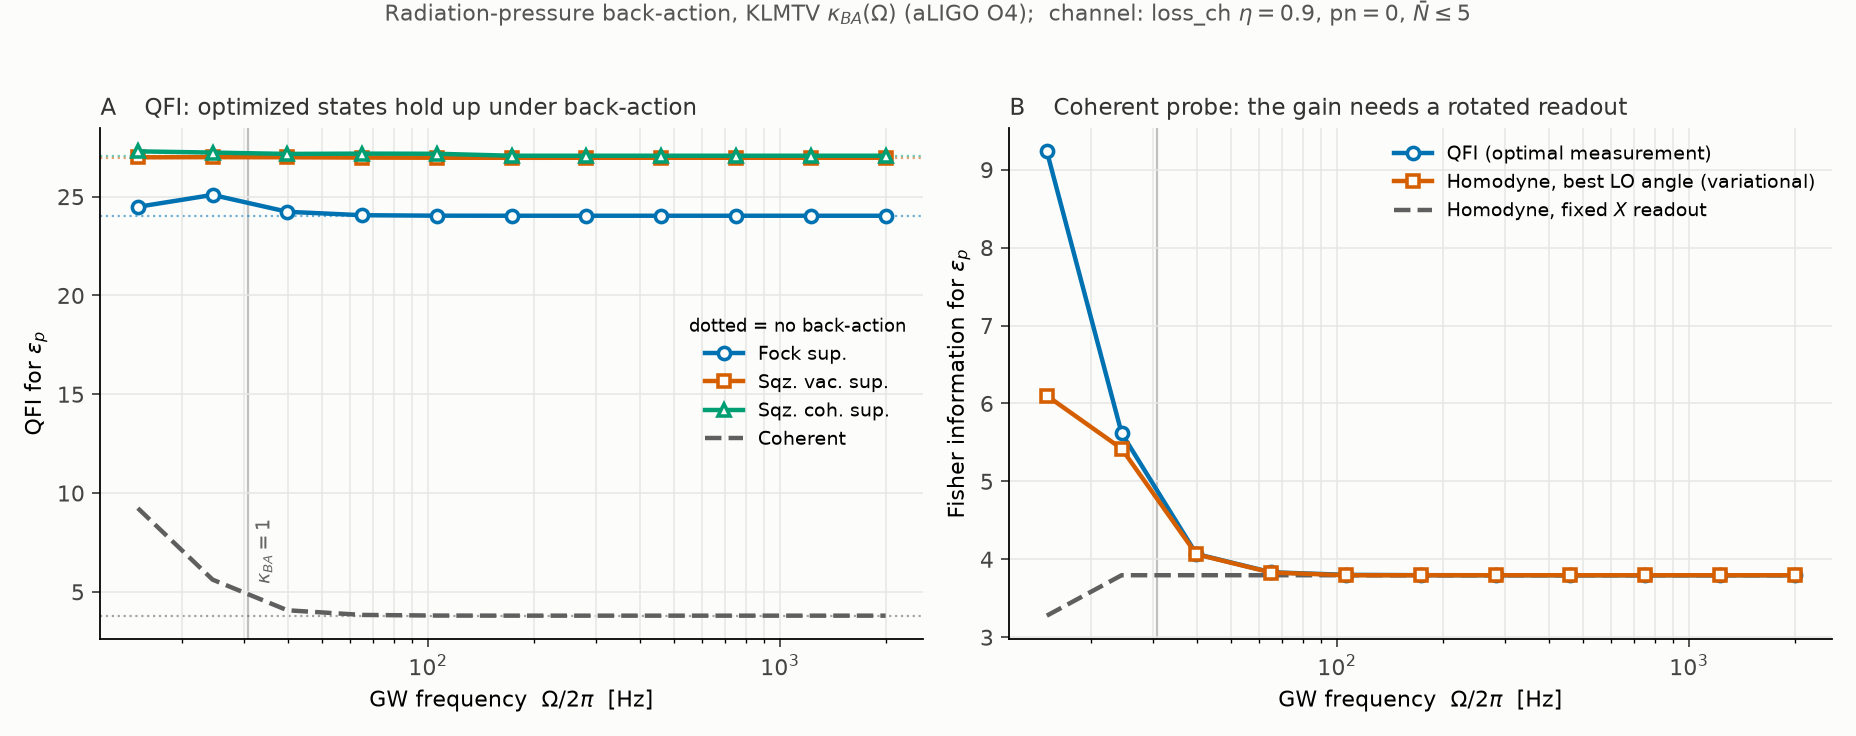
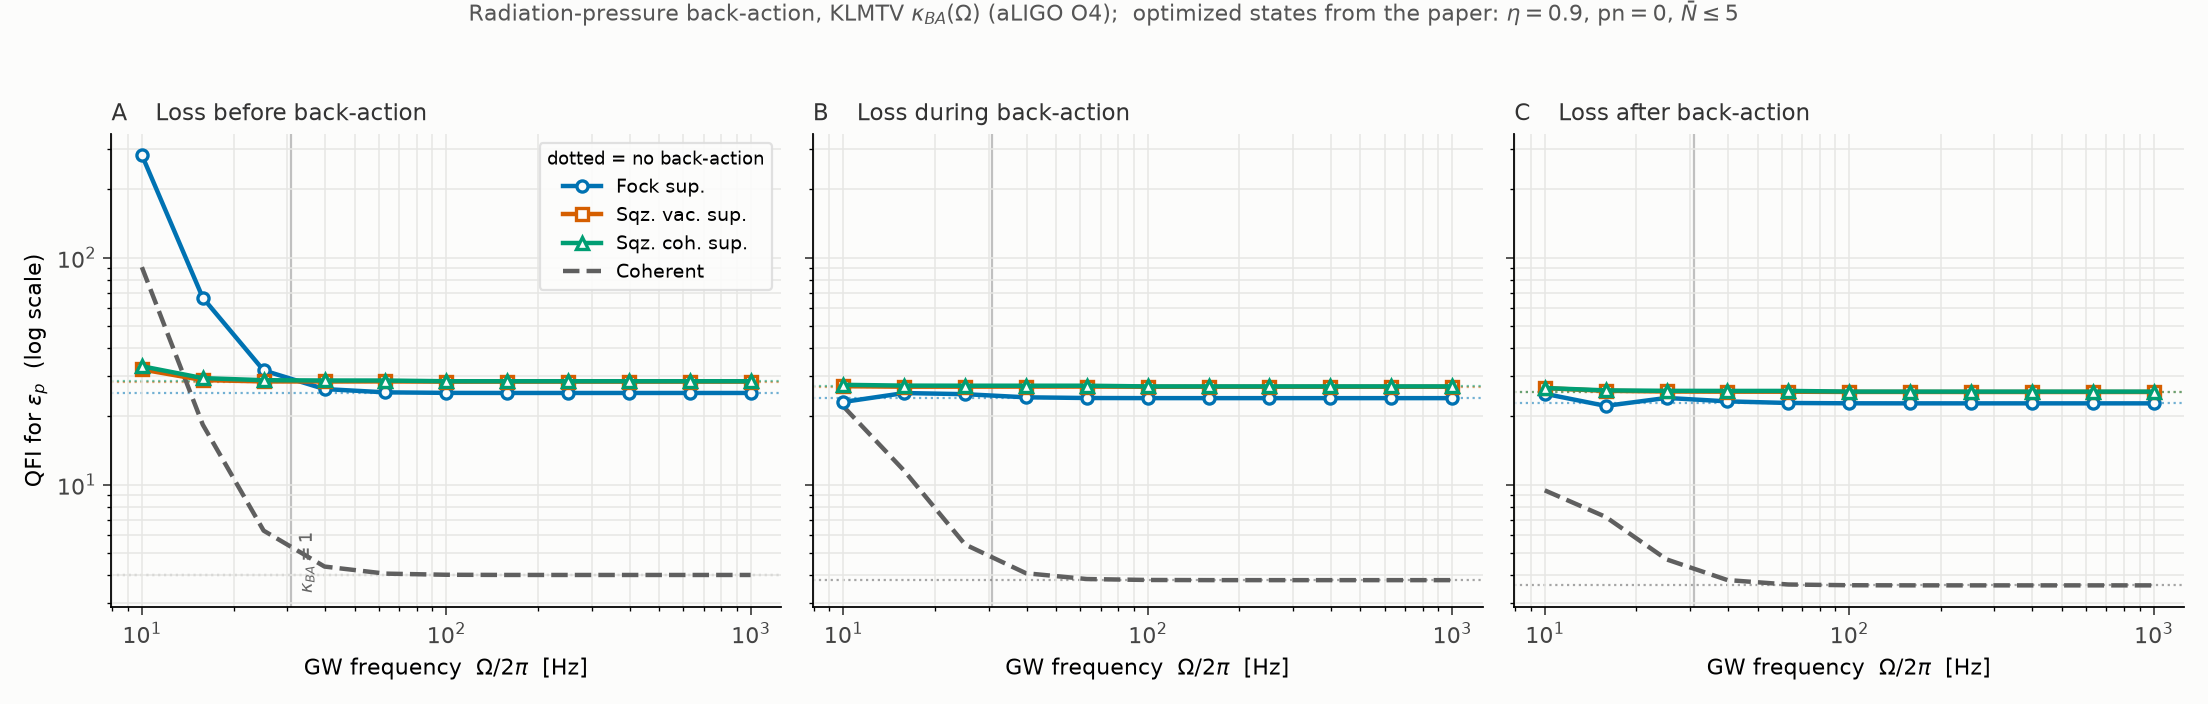
Step 2 results: 10 Hz-1 kHz sweep, three loss placements, log-y figure
Final sweep over the three loss placements (before/during/after
back-action). Concurrent case solved in the shear frame; before/after by
exact expm + attenuator Kraus map. Convergence at 10 Hz (kappa_ba=9.5) is
<=1e-7 for during and sqz_vac everywhere; the fock_sup before/after points
carry ~1-2% truncation uncertainty (state spreads past N=1150 under the
strongest shear). Figure uses a shared log y-axis so all placements are
comparable despite the low-frequency fock_sup amplification.

Claude-Session: https://claude.ai/code/session_017GUbGD8B6S4PGbHQRs9MEu

diff --git a/quantum_sensing/studies/step2_plot.py b/quantum_sensing/studies/step2_plot.py
@@ -67,6 +67,7 @@ def main():
         ax.axvline(f_k1, color="#999999", lw=1, alpha=0.6, zorder=0)
         ax.set_facecolor(SURFACE)
         ax.set_xscale("log")
+        ax.set_yscale("log")
         ax.grid(True, which="both", color="#e7e7e4", lw=0.7, zorder=0)
         ax.tick_params(colors="#444444")
         for s in ["top", "right"]:
@@ -75,10 +76,11 @@ def main():
         ax.set_title(TITLES[placement], fontsize=10.5, loc="left",
                      color="#333333")
 
-    axes[0].set_ylabel(r"QFI for $\epsilon_p$")
-    axes[0].text(f_k1 * 1.06, axes[0].get_ylim()[0] + 0.4, r"$\kappa_{BA}=1$",
+    axes[0].set_ylabel(r"QFI for $\epsilon_p$  (log scale)")
+    axes[0].text(f_k1 * 1.06, axes[0].get_ylim()[0] * 1.15, r"$\kappa_{BA}=1$",
                  fontsize=8, color="#666666", rotation=90, va="bottom")
-    axes[1].legend(fontsize=8.5, frameon=False, loc="center right",
+    axes[0].legend(fontsize=8.5, frameon=True, loc="upper right",
+                   facecolor=SURFACE, edgecolor="#dddddd", framealpha=0.9,
                    title="dotted = no back-action", title_fontsize=8)
 
     fig.suptitle(r"Radiation-pressure back-action, KLMTV $\kappa_{BA}(\Omega)$"
